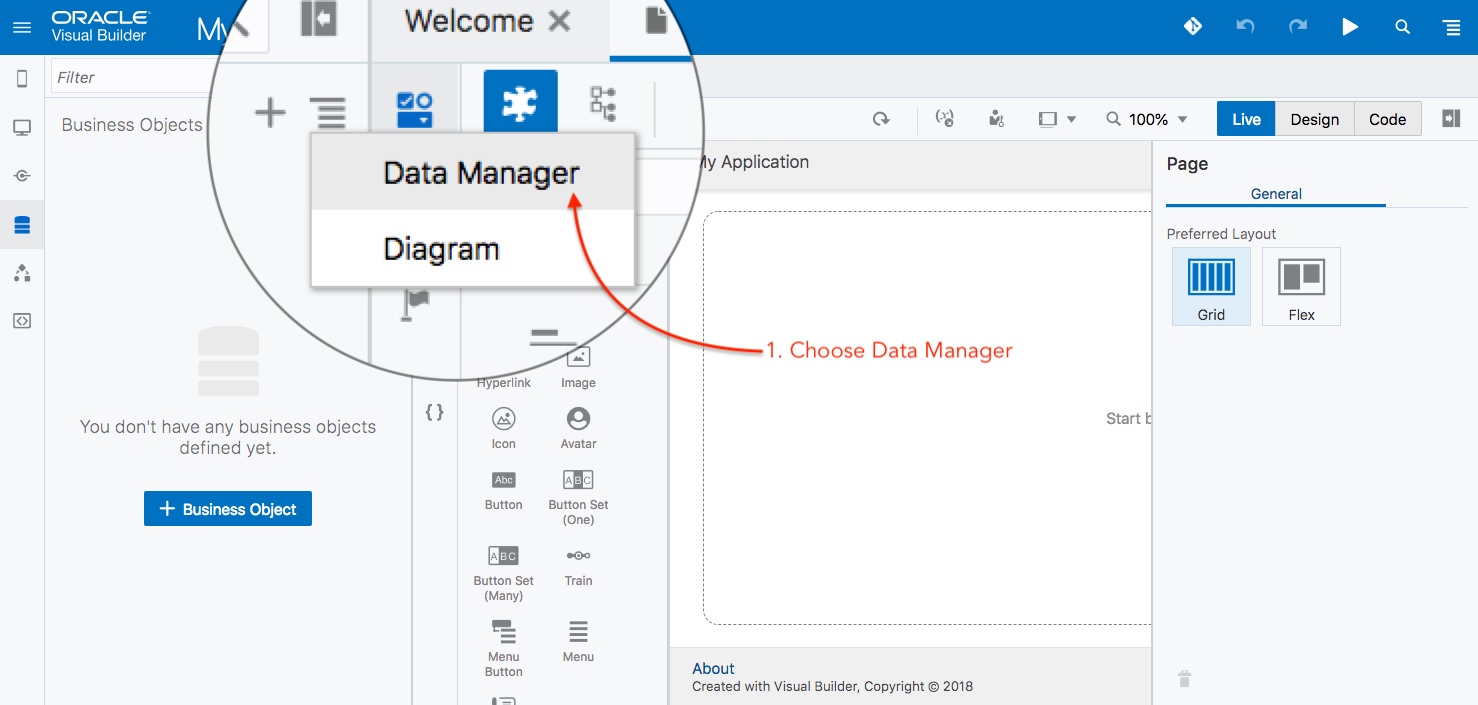
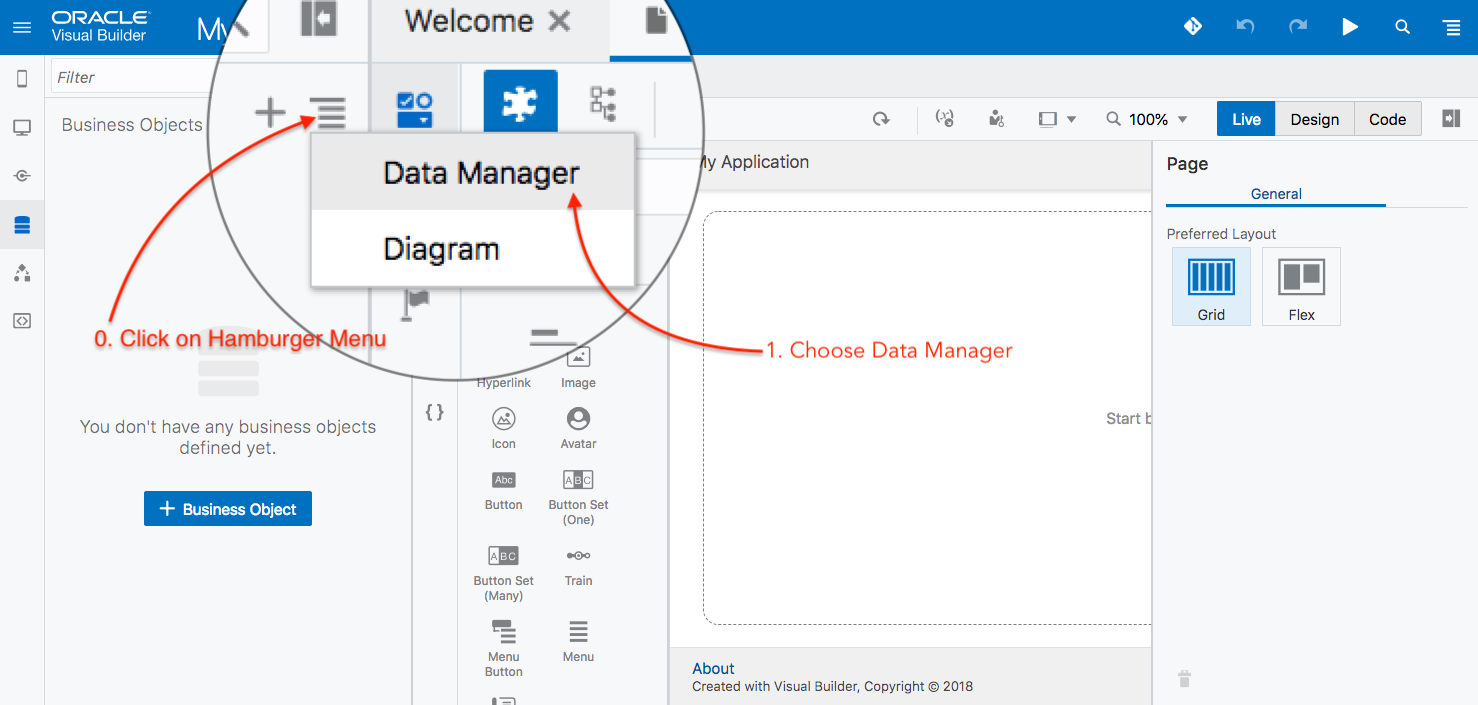
Added extra instruction

diff --git a/PART_1.md b/PART_1.md
@@ -45,7 +45,7 @@ After this excercise you will have the following Business Object Model.
 
 ![alt text](resources/images/bo/10.png "Logo Title Text 1")
 
-10. Click on the `hamburger` menu as illustrated below and choose the `Data Manager` menu item.
+10. Click on the `hamburger` menu (step: 0) as illustrated below and choose the `Data Manager` menu item (step: 1).
 
 > This will open a screen with various choices
 
